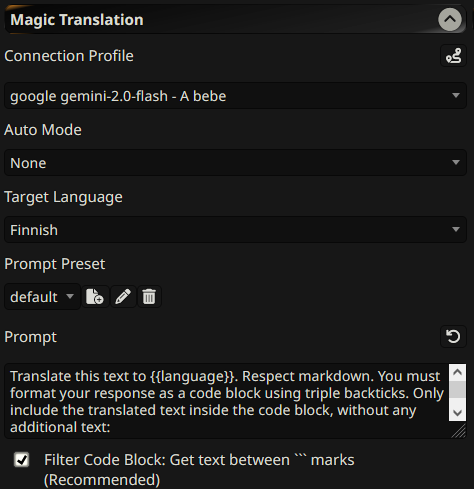
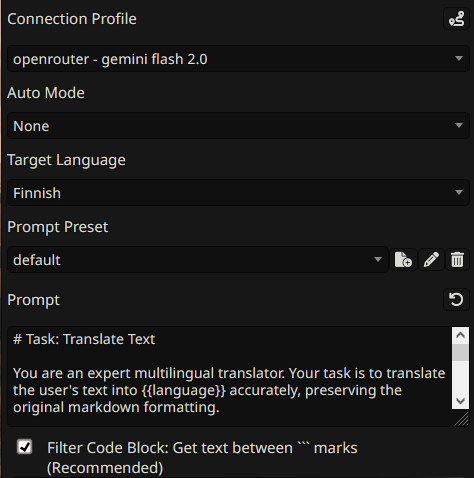
Better readme

diff --git a/readme.md b/readme.md
@@ -1,17 +1,19 @@
 # SillyTavern Magic Translation
 
-## Overview
-
-A [SillyTavern](https://docs.sillytavern.app/) extension that provides real-time translation of chat messages using configured Language Model APIs. You can configure the translation target language, the prompt used for translation, and which messages should be automatically translated.
+A [SillyTavern](https://docs.sillytavern.app/) extension that provides real-time translation of chat messages using your configured Language Model APIs.
 
 ![settings](images/settings.png)
 
-## Key Features
+## Features
 
-*   **Real-time Translation:** Translate chat messages using LLMs.
-*   **Configurable API:** Uses [Connection Profiles](https://docs.sillytavern.app/usage/core-concepts/connection-profiles/) to connect to various LLM APIs.
-*   **Customizable Prompts:** Modify the prompt used for translation to fine-tune results.
-*   **Automatic Translation Modes:** Translate incoming responses, outgoing input, or both automatically.
+*   **Real-time Translation:** Translate chat messages using any configured LLM.
+*   **Configurable API:** Uses SillyTavern's built-in [Connection Profiles](https://docs.sillytavern.app/usage/core-concepts/connection-profiles/).
+*   **Customizable Prompts:** Create and manage multiple prompt presets to fine-tune translation results.
+*   **Automatic Translation:** Automatically translate incoming responses, outgoing messages, or both.
+*   **Manual Translation:** On-demand translation via a button on each message or with slash commands.
+*   **Slash Commands:**
+    *   `/magic-translate [message_id]`: Translates a specific message. Defaults to the last message.
+    *   `/magic-translate-text <text>`: Translates any text you provide.
 
 ## Installation
 
@@ -23,75 +25,41 @@ https://github.com/bmen25124/SillyTavern-Magic-Translation
 
 ## How to Use
 
-1.  **Configure Connection Profile:**
-    *   Click the plug icon to open SillyTavern's API settings.
-    *   Create a connection profile. This profile will be used to send translation requests to the LLM.
+1.  **Configure a Connection Profile:**
+    *   Go to the **API Settings** tab (the plug icon on the top bar).
+    *   Set up a **Connection Profile** for the LLM you want to use for translation. This is the same as setting up a profile for a character to chat with.
 
 2.  **Configure Translation Settings:**
-    *   Go to the "Magic Translation" panel in the extension settings.
-    *   Select a Connection Profile from the dropdown.
-    *   Select desired Auto Mode or leave None if only manual translation is needed.
-    *   Choose the Target Language for translation.
+    *   Go to the **Extensions** tab (the plug icon on the right sidebar) and find the **Magic Translation** settings panel.
+    *   **Connection Profile:** Select the profile you configured in the previous step.
+    *   **Target Language:** Choose the language you want messages translated into.
+    *   **Auto Mode:** Select if you want automatic translation for incoming messages (`Responses`), outgoing messages (`Inputs`), or `Both`. Leave as `None` for manual-only translation.
 
-3.  **Customize Translation Prompt (Optional):**
-    *   Modify the default prompt in the text area to customize translation behavior.
-    *   Use `{{prompt}}` as a placeholder for the text to be translated.
-    *   Use `{{language}}` as a placeholder for the target language name.
+3.  **Translate Messages:**
+    *   **Manual:** Click the **globe icon** on any chat message to translate it.
+    *   **Automatic:** If Auto Mode is enabled, messages will be translated automatically based on your settings.
+    *   **Slash Command:** Use `/magic-translate` or `/magic-translate-text` in the chat input.
 
-4.  **Use Manual Translation:**
-    *   In the chat interface, click the globe icon on a message to translate it.
-    *   Use the slash command `/magic-translate {message id}` to translate a specific message by its ID, default to -1 (the latest message).
+## Settings Explained
 
-## Why not use the official Chat Translation extension?
-
-* The official `Chat Translation` extension uses APIs like Google, Yandex, etc. They are not as powerful as LLMs. They are too formal and not suitable for casual conversations.
-* There is only one powerful Translation API, which is [DeepL](https://www.deepl.com), but free users are limited to 500,000 characters per month. The cheapest plan is `$8.74` per month for 1,000,000 characters. On the other side, LLMs are mostly $0.3-$2 per 1,000,000 tokens. (token = 2-3~ letters)
-
-## Recommended LLMs
-
-Make sure the model speaks in your language. Some models might not allow NSFW content.
-
-*   **Google -> Gemini Flash:** Price-efficient. (input: $0.1, output: $0.4)
-*   **Cohere -> c4ai-aya-expanse-8b/c4ai-aya-expanse-32b:** Cheap enough (input: $0.5, output: $1.5)
-*   **openai-4o/claude-sonnet-3.x:** Little pricey. (input: $2.5/$3.5, output: $10/$15)
-*   Depending on your language, you can find [many other models](https://openrouter.ai/rankings/translation?view=week).
-
-## Settings
-
-*   **Connection Profile:** The connection profile from Connection Manager that will be used for translation.
+*   **Connection Profile:** The LLM profile used for translation.
+*   **Prompt Presets:** Manage different prompts for translation. You can create, rename, and delete presets. The `default` preset cannot be deleted.
+*   **Prompt:** The instruction template sent to the LLM. Key placeholders:
+    *   `{{prompt}}`: The text to be translated.
+    *   `{{language}}`: The target language name (e.g., "Spanish").
+    *   `{{chat}}`: An array of previous chat messages for context.
+*   **Filter Code Block:** If your prompt instructs the LLM to wrap the translation in a code block, this option will automatically extract the text from it.
+*   **Target Language:** The language to translate messages into.
 *   **Auto Mode:**
-    *   `None`: No automatic translation.
-    *   `Responses`: Automatically translate messages received from the LLM.
-    *   `Inputs`: Automatically translate messages you send to the LLM.
-    *   `Both`: Automatically translate both incoming and outgoing messages.
-*   **Target Language:** The language to translate the text into.
-*   **Prompt:** The prompt used to instruct the LLM to translate the text. Default:
-
-    ```text
-    Translate this text to {{language}}. You must format your response as a code block using triple backticks. Only include the translated text inside the code block, without any additional text:
-
-    \`\`\`
-    {{prompt}}
-    \`\`\`
-
-    Important: Your response must follow this exact format with the translation enclosed in code blocks (\`\`\`).
-    ```
-
-*   **Filter Code Block:** When checked, the extension extracts text between the \`\`\` code blocks.
-
-## Important Notes
-
-*   If you are using this extension, it's recommended to disable the "Auto Mode" feature of the official `Chat Translation` extension (if enabled) to avoid conflicts or unexpected behavior.
+    *   `None`: Manual translation only.
+    *   `Responses`: Automatically translate messages from the character.
+    *   `Inputs`: Automatically translate your messages before sending.
+    *   `Both`: Translate both incoming and outgoing messages.
 
 ## Troubleshooting
 
-*   **Extension Not Showing:**
-    *   Ensure the extension is properly installed and enabled in the Extensions tab.
-    *   Reload SillyTavern.
-*   **Translation Errors:**
-    *   Verify that the selected Connection Profile is configured correctly and has a valid API key.
-    *   Check the LLM's response for errors or issues.
-    *   Adjust the translation prompt if necessary.
-*   **Automatic Translation Not Working:**
-    *   Ensure the Auto Mode is set correctly.
-    *   Verify that the selected Connection Profile is valid.
+*   **Extension not showing:** Make sure it's installed and enabled in the Extensions tab, then reload SillyTavern.
+*   **Translation errors:**
+    *   Verify your selected **Connection Profile** is working correctly.
+    *   Check the prompt for any issues. Try restoring the default prompt.
+    *   Some LLMs may refuse to translate if the content violates their safety policies.
